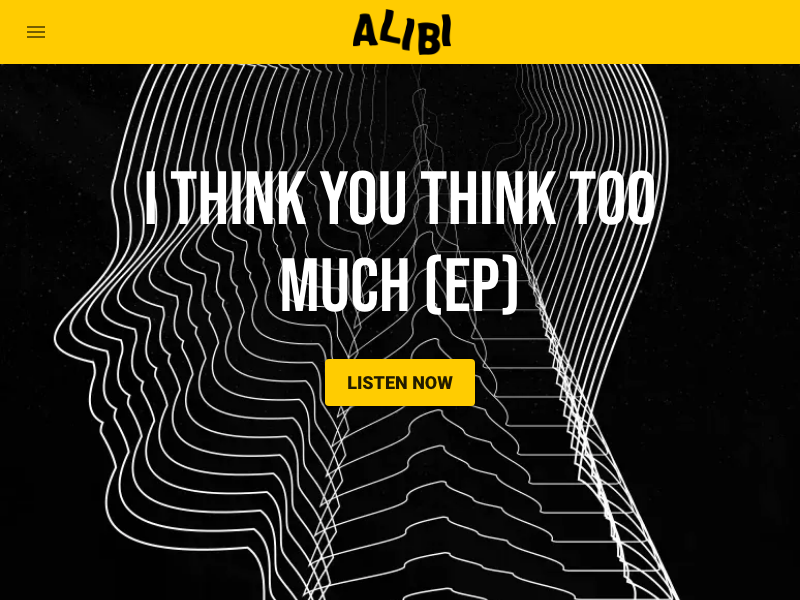
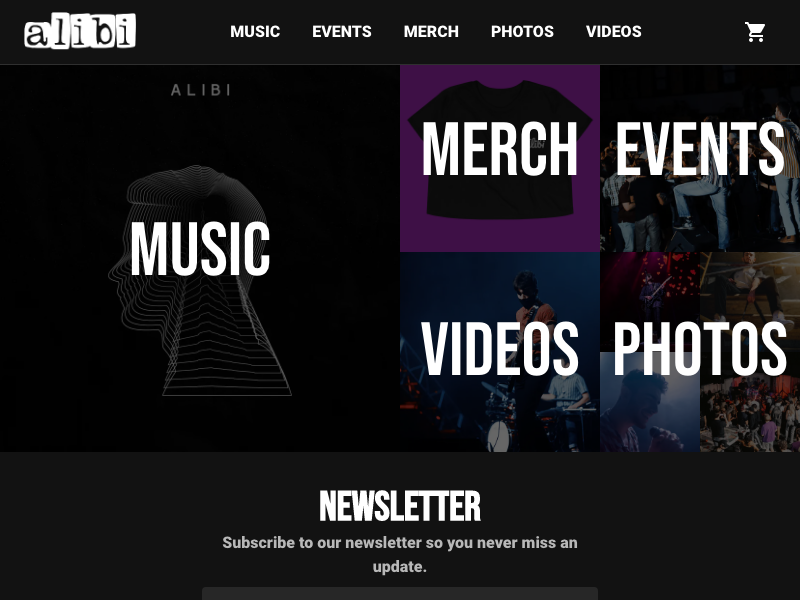
update assets

diff --git a/src/pages/landing/about/about-card-grid.tsx b/src/pages/landing/about/about-card-grid.tsx
@@ -1,7 +1,6 @@
 import Grid from "@material-ui/core/Grid";
 import React from "react";
 import { IAboutMe } from "../../../data-access/about-me";
-import { EducationCard } from "./education";
 import { SkillsCard } from "./skills";
 import { SummaryCard } from "./summary";
 
@@ -14,14 +13,11 @@ export const AboutCardGrid = ({
 }) => {
   return (
     <Grid container>
-      <Grid item sm={4}>
+      <Grid item sm={6}>
         <SummaryCard aboutMe={aboutMe} />
       </Grid>
-      <Grid item sm={4}>
+      <Grid item sm={6}>
         <SkillsCard aboutMe={aboutMe} topTopics={topTopics} />
-      </Grid>
-      <Grid item sm={4}>
-        <EducationCard aboutMe={aboutMe} />
       </Grid>
     </Grid>
   );

diff --git a/data/about-me.ts b/data/about-me.ts
@@ -14,7 +14,8 @@ done rather than what is currently fashionable.
 const overview = `
 Hello, my name is Chris Vouga. I'm a software developer based in the
 Phoenix Valley. I find it a lot of fun to create things that live on
-the web. A random fact about me is that I play the drums.
+the web. A random fact about me is that I play the drums. I have achieved
+a Bachelor of Science degree in Mathematics and Statistics from Arizona State University.
 `.trim();
 
 export default {

diff --git a/src/theme/theme.tsx b/src/theme/theme.tsx
@@ -7,6 +7,10 @@ const OPEN_NEW_TAB_PROPS = {
 
 export const theme = responsiveFontSizes(
   createMuiTheme({
+    palette: {
+      type: "dark",
+    },
+
     typography: {
       fontWeightRegular: "bold",
     },
